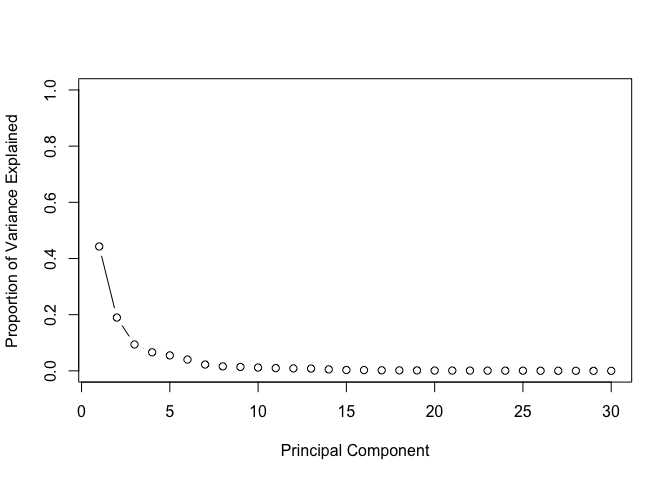
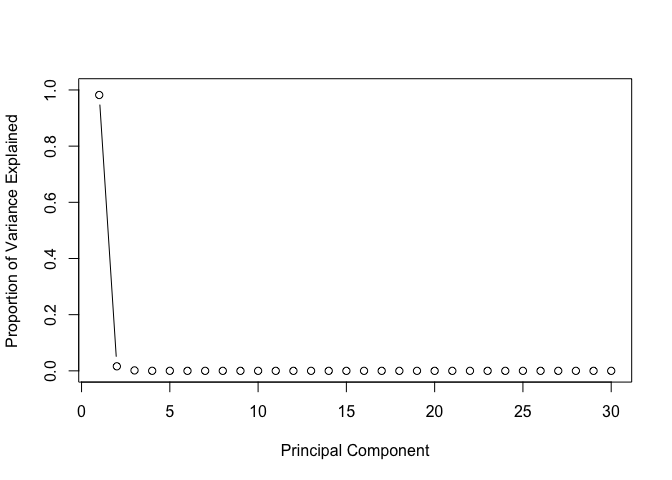
Updated with corrplot

diff --git a/BreastCancer.md b/BreastCancer.md
@@ -14,10 +14,11 @@ Shravan Kuchkula
     -   [What is the sd of each of the numeric columns ?](#what-is-the-sd-of-each-of-the-numeric-columns)
     -   [How are the variables related to each other ?](#how-are-the-variables-related-to-each-other)
 -   [PCA](#pca)
+    -   [Running a PCA using covariance matrix:](#running-a-pca-using-covariance-matrix)
     -   [Bi-Plot](#bi-plot)
     -   [Scree plots](#scree-plots)
 -   [LDA](#lda)
--   [Cross Validation](#cross-validation)
+-   [Model Validation](#model-validation)
     -   [Splitting the dataset into training/test data](#splitting-the-dataset-into-trainingtest-data)
     -   [3-fold cross validation](#fold-cross-validation)
     -   [10-fold cross validation](#fold-cross-validation-1)
@@ -256,7 +257,115 @@ The first step in doing a PCA, is to ask ourselves whether or not the data shoul
 
 Based on the output from `mean` and `sd`, it does appear that some variables have larger variance, e.g. area\_worst. Hence we should use scaling. (will get this later and prove why we need to scale)
 
-Running PCA:
+### Running a PCA using covariance matrix:
+
+``` r
+wdbc.pcov <- princomp(wdbc.data, scores = TRUE)
+summary(wdbc.pcov)
+```
+
+    ## Importance of components:
+    ##                             Comp.1      Comp.2       Comp.3      Comp.4
+    ## Standard deviation     665.5844581 85.42395908 26.506542133 7.385979582
+    ## Proportion of Variance   0.9820447  0.01617649  0.001557511 0.000120932
+    ## Cumulative Proportion    0.9820447  0.99822116  0.999778672 0.999899604
+    ##                              Comp.5       Comp.6       Comp.7       Comp.8
+    ## Standard deviation     6.310302e+00 1.731851e+00 1.346157e+00 6.089449e-01
+    ## Proportion of Variance 8.827245e-05 6.648840e-06 4.017137e-06 8.220172e-07
+    ## Cumulative Proportion  9.999879e-01 9.999945e-01 9.999985e-01 9.999994e-01
+    ##                              Comp.9      Comp.10      Comp.11      Comp.12
+    ## Standard deviation     3.940054e-01 2.896782e-01 1.776328e-01 8.651121e-02
+    ## Proportion of Variance 3.441353e-07 1.860187e-07 6.994732e-08 1.659089e-08
+    ## Cumulative Proportion  9.999997e-01 9.999999e-01 1.000000e+00 1.000000e+00
+    ##                             Comp.13      Comp.14      Comp.15      Comp.16
+    ## Standard deviation     5.617918e-02 4.645111e-02 3.638966e-02 2.528130e-02
+    ## Proportion of Variance 6.996416e-09 4.783183e-09 2.935492e-09 1.416849e-09
+    ## Cumulative Proportion  1.000000e+00 1.000000e+00 1.000000e+00 1.000000e+00
+    ##                             Comp.17      Comp.18      Comp.19      Comp.20
+    ## Standard deviation     1.934488e-02 1.532176e-02 1.357421e-02 1.280201e-02
+    ## Proportion of Variance 8.295777e-10 5.204059e-10 4.084640e-10 3.633134e-10
+    ## Cumulative Proportion  1.000000e+00 1.000000e+00 1.000000e+00 1.000000e+00
+    ##                             Comp.21      Comp.22     Comp.23      Comp.24
+    ## Standard deviation     8.830228e-03 7.583529e-03 5.90389e-03 5.324037e-03
+    ## Proportion of Variance 1.728497e-10 1.274875e-10 7.72683e-11 6.283577e-11
+    ## Cumulative Proportion  1.000000e+00 1.000000e+00 1.00000e+00 1.000000e+00
+    ##                             Comp.25      Comp.26      Comp.27      Comp.28
+    ## Standard deviation     4.014722e-03 3.531047e-03 1.916772e-03 1.686090e-03
+    ## Proportion of Variance 3.573023e-11 2.763960e-11 8.144523e-12 6.302115e-12
+    ## Cumulative Proportion  1.000000e+00 1.000000e+00 1.000000e+00 1.000000e+00
+    ##                             Comp.29      Comp.30
+    ## Standard deviation     1.414706e-03 8.371162e-04
+    ## Proportion of Variance 4.436669e-12 1.553447e-12
+    ## Cumulative Proportion  1.000000e+00 1.000000e+00
+
+Get the eigen values:
+
+``` r
+# Eigen values using covariance matrix
+round(wdbc.pcov$sdev ^2,4)
+```
+
+    ##      Comp.1      Comp.2      Comp.3      Comp.4      Comp.5      Comp.6 
+    ## 443002.6709   7297.2528    702.5968     54.5527     39.8199      2.9993 
+    ##      Comp.7      Comp.8      Comp.9     Comp.10     Comp.11     Comp.12 
+    ##      1.8121      0.3708      0.1552      0.0839      0.0316      0.0075 
+    ##     Comp.13     Comp.14     Comp.15     Comp.16     Comp.17     Comp.18 
+    ##      0.0032      0.0022      0.0013      0.0006      0.0004      0.0002 
+    ##     Comp.19     Comp.20     Comp.21     Comp.22     Comp.23     Comp.24 
+    ##      0.0002      0.0002      0.0001      0.0001      0.0000      0.0000 
+    ##     Comp.25     Comp.26     Comp.27     Comp.28     Comp.29     Comp.30 
+    ##      0.0000      0.0000      0.0000      0.0000      0.0000      0.0000
+
+Bi-plot using covariance matrix:
+
+``` r
+cex.before <- par("cex")
+par(cex = 0.7)
+biplot(wdbc.pcov)
+```
+
+![](BreastCancer_files/figure-markdown_github/unnamed-chunk-13-1.png)
+
+``` r
+par(cex = cex.before)
+```
+
+Scree plots can be useful in deciding how many PC's we should keep in the model. Let's create the scree-plots in R. As there is no R function to create a scree-plot, we need to prepare the data for the plot.
+
+``` r
+# Set up 1 x 2 plotting grid
+par(mfrow = c(1, 2))
+
+# Calculate variability of each component
+pr.cvar <- wdbc.pcov$sdev ^ 2
+
+# Variance explained by each principal component: pve
+pve_cov <- pr.cvar/sum(pr.cvar)
+```
+
+Create a plot of variance explained for each principal component.
+
+Scree plot using covariance matrix:
+
+``` r
+# Plot variance explained for each principal component
+plot(pve_cov, xlab = "Principal Component", 
+     ylab = "Proportion of Variance Explained", 
+     ylim = c(0, 1), type = "b")
+```
+
+![](BreastCancer_files/figure-markdown_github/unnamed-chunk-15-1.png)
+
+``` r
+# Plot cumulative proportion of variance explained
+plot(cumsum(pve_cov), xlab = "Principal Component", 
+     ylab = "Cumulative Proportion of Variance Explained", 
+     ylim = c(0, 1), type = "b")
+```
+
+![](BreastCancer_files/figure-markdown_github/unnamed-chunk-15-2.png)
+
+Running PCA using correlation matrix:
 
 ``` r
 wdbc.pr <- prcomp(wdbc.data, scale = TRUE, center = TRUE)
@@ -297,7 +406,7 @@ par(cex = 0.7)
 biplot(wdbc.pr)
 ```
 
-![](BreastCancer_files/figure-markdown_github/unnamed-chunk-12-1.png)
+![](BreastCancer_files/figure-markdown_github/unnamed-chunk-17-1.png)
 
 ``` r
 par(cex = cex.before)
@@ -313,7 +422,7 @@ plot(wdbc.pr$x[, c(1, 2)], col = (diagnosis + 1),
      xlab = "PC1", ylab = "PC2")
 ```
 
-![](BreastCancer_files/figure-markdown_github/unnamed-chunk-13-1.png)
+![](BreastCancer_files/figure-markdown_github/unnamed-chunk-18-1.png)
 
 There is a clear seperation of diagnosis (M or B) that is evident in the PC1 vs PC2 plot.
 
@@ -325,7 +434,7 @@ plot(wdbc.pr$x[, c(1,3)], col = (diagnosis + 1),
      xlab = "PC1", ylab = "PC3")
 ```
 
-![](BreastCancer_files/figure-markdown_github/unnamed-chunk-14-1.png)
+![](BreastCancer_files/figure-markdown_github/unnamed-chunk-19-1.png)
 
 Because principal component 2 explains more variance in the original data than principal component 3, you can see that the first plot has a cleaner cut separating the two subgroups.
 
@@ -353,7 +462,7 @@ plot(pve, xlab = "Principal Component",
      ylim = c(0, 1), type = "b")
 ```
 
-![](BreastCancer_files/figure-markdown_github/unnamed-chunk-16-1.png)
+![](BreastCancer_files/figure-markdown_github/unnamed-chunk-21-1.png)
 
 ``` r
 # Plot cumulative proportion of variance explained
@@ -362,7 +471,7 @@ plot(cumsum(pve), xlab = "Principal Component",
      ylim = c(0, 1), type = "b")
 ```
 
-![](BreastCancer_files/figure-markdown_github/unnamed-chunk-16-2.png)
+![](BreastCancer_files/figure-markdown_github/unnamed-chunk-21-2.png)
 
 Scree-plots suggest that 80% of the variation in the numeric data is captured in the first 5 PCs.
 
@@ -428,8 +537,10 @@ head(wdbc.pcst)
 
 Here, diagnosis == 1 represents malignant and diagnosis == 0 represents benign.
 
-Cross Validation
+Model Validation
 ----------------
+
+To evaluate the effectiveness of our model in predicting the diagnosis of breast cancer, we can split the original data set into training and test data. Using the training data, we will build the model and predict using the test data. We will then compare the predictions with the original data to check the accuracy of our predictions. We will use three approaches to split and validate the data. In the first approach, we use 75% of the data as our training dataset and 25% as our test dataset. In the second approach, we use 3-fold cross validation and in the third approach we extend that to a 10-fold cross validation.
 
 ### Splitting the dataset into training/test data
 
@@ -450,15 +561,15 @@ wdbc.pcst.test <- wdbc.pcst[rvec >= 0.75,]
 nrow(wdbc.pcst.train)
 ```
 
-    ## [1] 419
+    ## [1] 422
 
 ``` r
 nrow(wdbc.pcst.test)
 ```
 
-    ## [1] 150
+    ## [1] 147
 
-So, 419 observations are in training dataset and 150 observations are in the test dataset. We will use the training dataset to calculate the `linear discriminant function` by passing it to the `lda()` function of the `MASS` package.
+So, 422 observations are in training dataset and 147 observations are in the test dataset. We will use the training dataset to calculate the `linear discriminant function` by passing it to the `lda()` function of the `MASS` package.
 
 ``` r
 library(MASS)
@@ -483,20 +594,20 @@ wdbc.lda
     ## 
     ## Prior probabilities of groups:
     ##         0         1 
-    ## 0.6372315 0.3627685 
+    ## 0.6113744 0.3886256 
     ## 
     ## Group means:
-    ##         PC1        PC2        PC3        PC4        PC5
-    ## 0  2.158356 -0.3715593  0.1834672  0.1979268 -0.1664454
-    ## 1 -3.652319  0.6641208 -0.3777881 -0.3267553  0.2105670
+    ##         PC1        PC2        PC3         PC4         PC5
+    ## 0  2.267949 -0.2229657  0.2600170  0.07943201 -0.08497233
+    ## 1 -3.531331  0.5190802 -0.5630661 -0.27238027  0.17382785
     ## 
     ## Coefficients of linear discriminants:
     ##            LD1
-    ## PC1 -0.4767508
-    ## PC2  0.1873273
-    ## PC3 -0.1902564
-    ## PC4 -0.2314241
-    ## PC5  0.1962748
+    ## PC1 -0.4579464
+    ## PC2  0.1644163
+    ## PC3 -0.2334756
+    ## PC4 -0.1854051
+    ## PC5  0.1393228
 
 Let's use this to predict by passing the predict function's newdata as the testing dataset.
 
@@ -524,11 +635,11 @@ Our predictions are contained in the `class` attribute.
 (wdbc.lda.predict.class <- wdbc.lda.predict$class)
 ```
 
-    ##   [1] 1 1 1 1 1 1 1 0 1 0 1 0 1 1 1 0 0 0 1 0 1 0 1 0 1 0 0 0 1 0 1 1 0 0 1
-    ##  [36] 0 0 0 1 0 1 0 0 1 0 1 0 1 0 1 1 0 0 0 0 1 1 0 0 0 1 0 1 1 0 1 0 0 1 0
-    ##  [71] 0 0 0 0 0 0 0 0 0 0 1 1 0 0 0 0 1 0 0 0 1 1 0 0 0 0 0 0 0 0 1 0 0 0 0
-    ## [106] 1 1 1 0 1 0 1 0 0 0 0 0 1 0 0 0 0 0 0 1 0 0 1 0 0 1 0 1 0 0 0 0 0 0 0
-    ## [141] 0 0 0 0 0 0 0 0 0 0
+    ##   [1] 1 1 1 1 1 1 0 0 0 0 0 1 0 0 0 0 0 1 0 0 0 1 0 0 0 0 1 0 0 0 0 0 0 1 0
+    ##  [36] 0 0 1 0 0 0 1 0 1 1 0 1 0 1 0 1 0 0 1 1 1 1 0 1 0 1 0 0 0 1 0 0 0 0 0
+    ##  [71] 0 0 0 0 0 1 0 0 0 0 1 0 0 0 0 1 1 1 0 0 0 0 0 0 1 0 0 0 1 0 0 0 0 0 0
+    ## [106] 0 0 0 0 0 0 1 0 1 0 0 0 0 0 0 0 0 0 0 0 0 0 0 0 0 0 0 1 1 1 0 1 0 1 0
+    ## [141] 0 0 1 1 1 1 1
     ## Levels: 0 1
 
 Next, compare the accuracy of these predictions with the original data.
@@ -541,12 +652,12 @@ A simple way to validate the accuracy of our model in predicting diagnosis (M or
 
     ##                       
     ## wdbc.lda.predict.class  0  1
-    ##                      0 90 10
-    ##                      1  0 50
+    ##                      0 98  5
+    ##                      1  1 43
 
-So according to this output, the model predicted 90 times that the diagnosis is 0 (benign) when the actual observation was 0 (benign) and 10 times it predicted incorrectly. Similarly, the model predicted that the diagnosis is 1 (malignant) 50 times correctly and 0 predicted incorrectly.
+So according to this output, the model predicted 98 times that the diagnosis is 0 (benign) when the actual observation was 0 (benign) and 5 times it predicted incorrectly. Similarly, the model predicted that the diagnosis is 1 (malignant) 43 times correctly and 1 predicted incorrectly.
 
-The accuracy of this model in predicting benign tumors is 0.9 or 90% accurate. The accuracy of this model in predicting malignant tumors is 1 or 100% accurate.
+The accuracy of this model in predicting benign tumors is 0.9514563 or 95.1456311% accurate. The accuracy of this model in predicting malignant tumors is 0.9772727 or 97.7272727% accurate.
 
 What is the classification accuracy of this model ?
 
@@ -579,14 +690,14 @@ str(splitPlan)
 
     ## List of 3
     ##  $ :List of 2
-    ##   ..$ train: int [1:380] 2 3 6 7 8 9 10 11 12 13 ...
-    ##   ..$ app  : int [1:189] 435 279 516 191 240 64 547 27 371 285 ...
+    ##   ..$ train: int [1:380] 2 3 4 6 7 8 10 11 12 13 ...
+    ##   ..$ app  : int [1:189] 272 465 431 108 170 98 171 129 227 182 ...
     ##  $ :List of 2
-    ##   ..$ train: int [1:379] 1 2 4 5 6 7 9 10 11 12 ...
-    ##   ..$ app  : int [1:190] 106 461 65 427 39 347 296 551 154 274 ...
+    ##   ..$ train: int [1:379] 1 3 4 5 9 10 11 13 16 17 ...
+    ##   ..$ app  : int [1:190] 14 409 346 147 525 157 229 203 434 137 ...
     ##  $ :List of 2
-    ##   ..$ train: int [1:379] 1 3 4 5 8 14 15 16 17 18 ...
-    ##   ..$ app  : int [1:190] 50 515 439 276 13 565 6 490 247 105 ...
+    ##   ..$ train: int [1:379] 1 2 5 6 7 8 9 12 14 15 ...
+    ##   ..$ app  : int [1:190] 268 231 358 504 510 103 274 247 196 343 ...
     ##  - attr(*, "splitmethod")= chr "kwaycross"
 
 Here, k is the number of folds and `splitplan` is the cross validation plan
@@ -607,16 +718,16 @@ for ( i in 1:k ) {
 
     ##    
     ##       0   1
-    ##   0 120   7
-    ##   1   0  62
+    ##   0 130   6
+    ##   1   0  53
+    ##    
+    ##       0   1
+    ##   0 113  12
+    ##   1   0  65
     ##    
     ##       0   1
     ##   0 114  12
     ##   1   0  64
-    ##    
-    ##       0   1
-    ##   0 123   5
-    ##   1   0  62
 
 ### 10-fold cross validation
 
@@ -642,44 +753,44 @@ for ( i in 1:k ) {
 
     ##    
     ##      0  1
-    ##   0 31  4
+    ##   0 39  3
+    ##   1  0 14
+    ##    
+    ##      0  1
+    ##   0 38  3
+    ##   1  0 16
+    ##    
+    ##      0  1
+    ##   0 40  3
+    ##   1  0 14
+    ##    
+    ##      0  1
+    ##   0 30  6
     ##   1  0 21
+    ##    
+    ##      0  1
+    ##   0 34  2
+    ##   1  1 20
+    ##    
+    ##      0  1
+    ##   0 36  1
+    ##   1  0 20
+    ##    
+    ##      0  1
+    ##   0 31  4
+    ##   1  0 22
+    ##    
+    ##      0  1
+    ##   0 40  0
+    ##   1  0 17
     ##    
     ##      0  1
     ##   0 31  3
     ##   1  0 23
     ##    
     ##      0  1
-    ##   0 39  2
-    ##   1  0 16
-    ##    
-    ##      0  1
-    ##   0 37  2
-    ##   1  0 18
-    ##    
-    ##      0  1
-    ##   0 33  1
-    ##   1  0 23
-    ##    
-    ##      0  1
-    ##   0 36  2
-    ##   1  1 18
-    ##    
-    ##      0  1
-    ##   0 36  4
+    ##   0 37  3
     ##   1  0 17
-    ##    
-    ##      0  1
-    ##   0 38  2
-    ##   1  0 17
-    ##    
-    ##      0  1
-    ##   0 40  2
-    ##   1  0 15
-    ##    
-    ##      0  1
-    ##   0 35  6
-    ##   1  0 16
 
 An advanced way of validating the accuracy of our model is by using a k-fold cross-validation.
 
